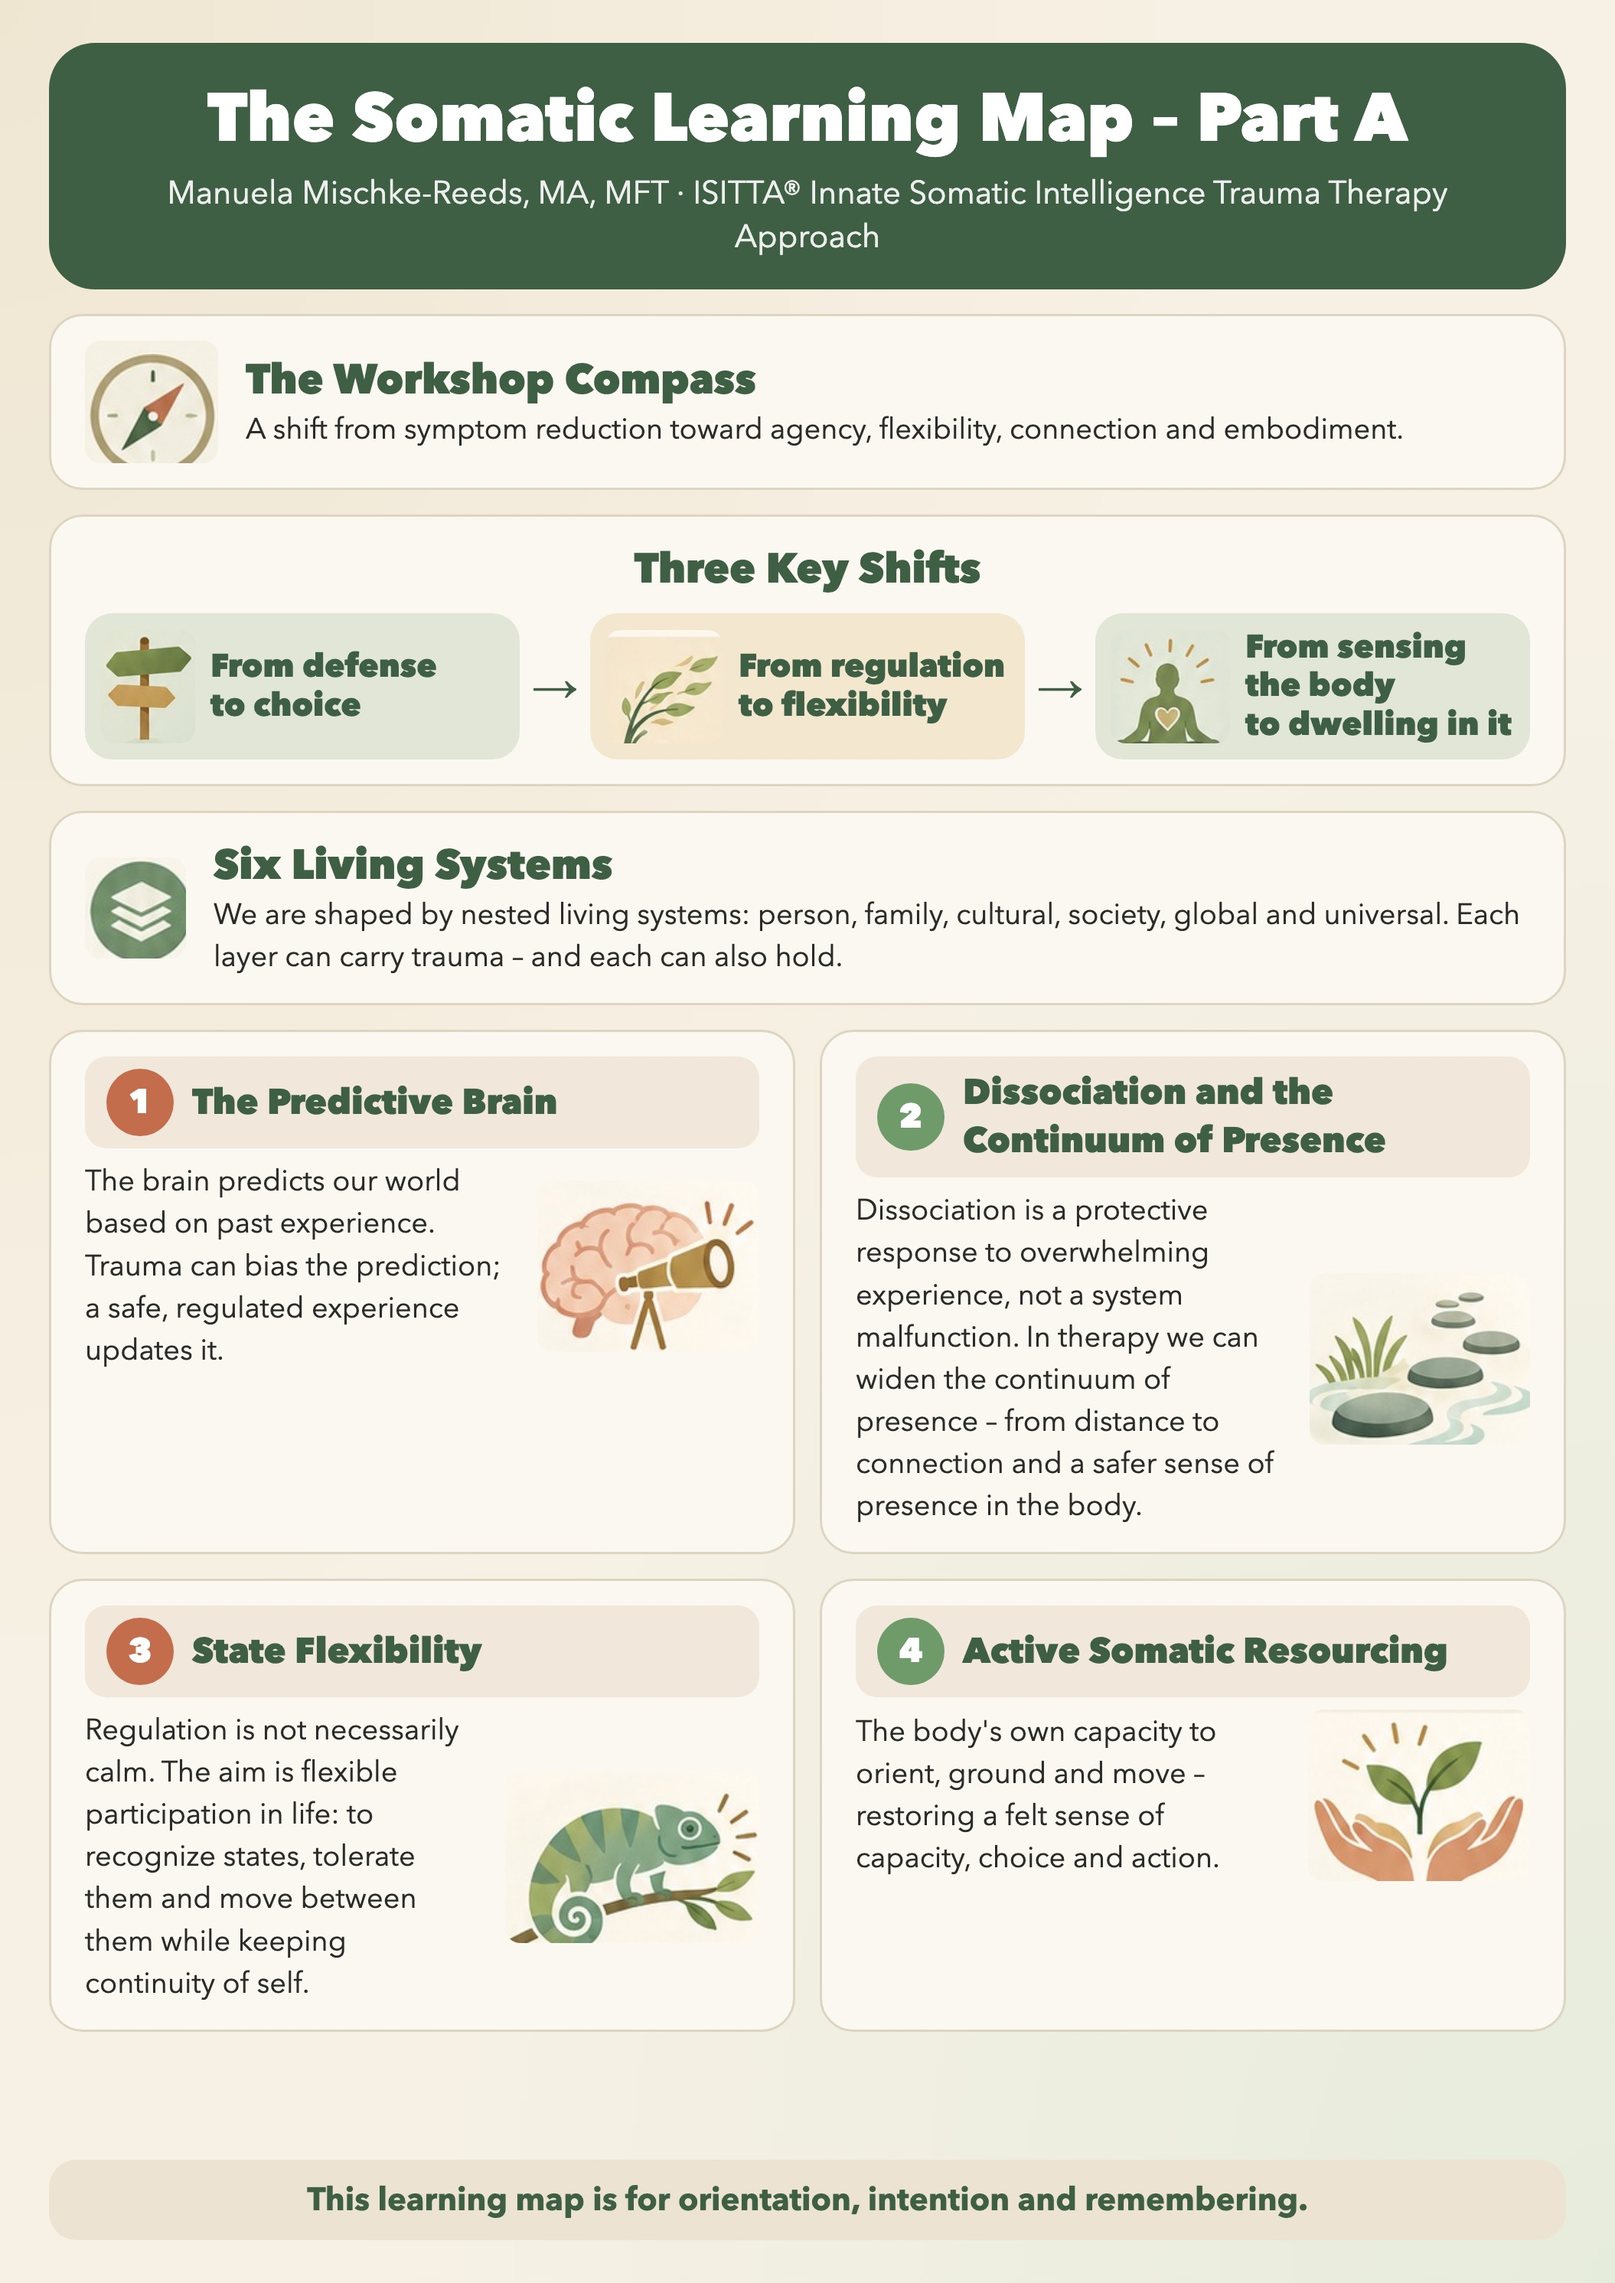
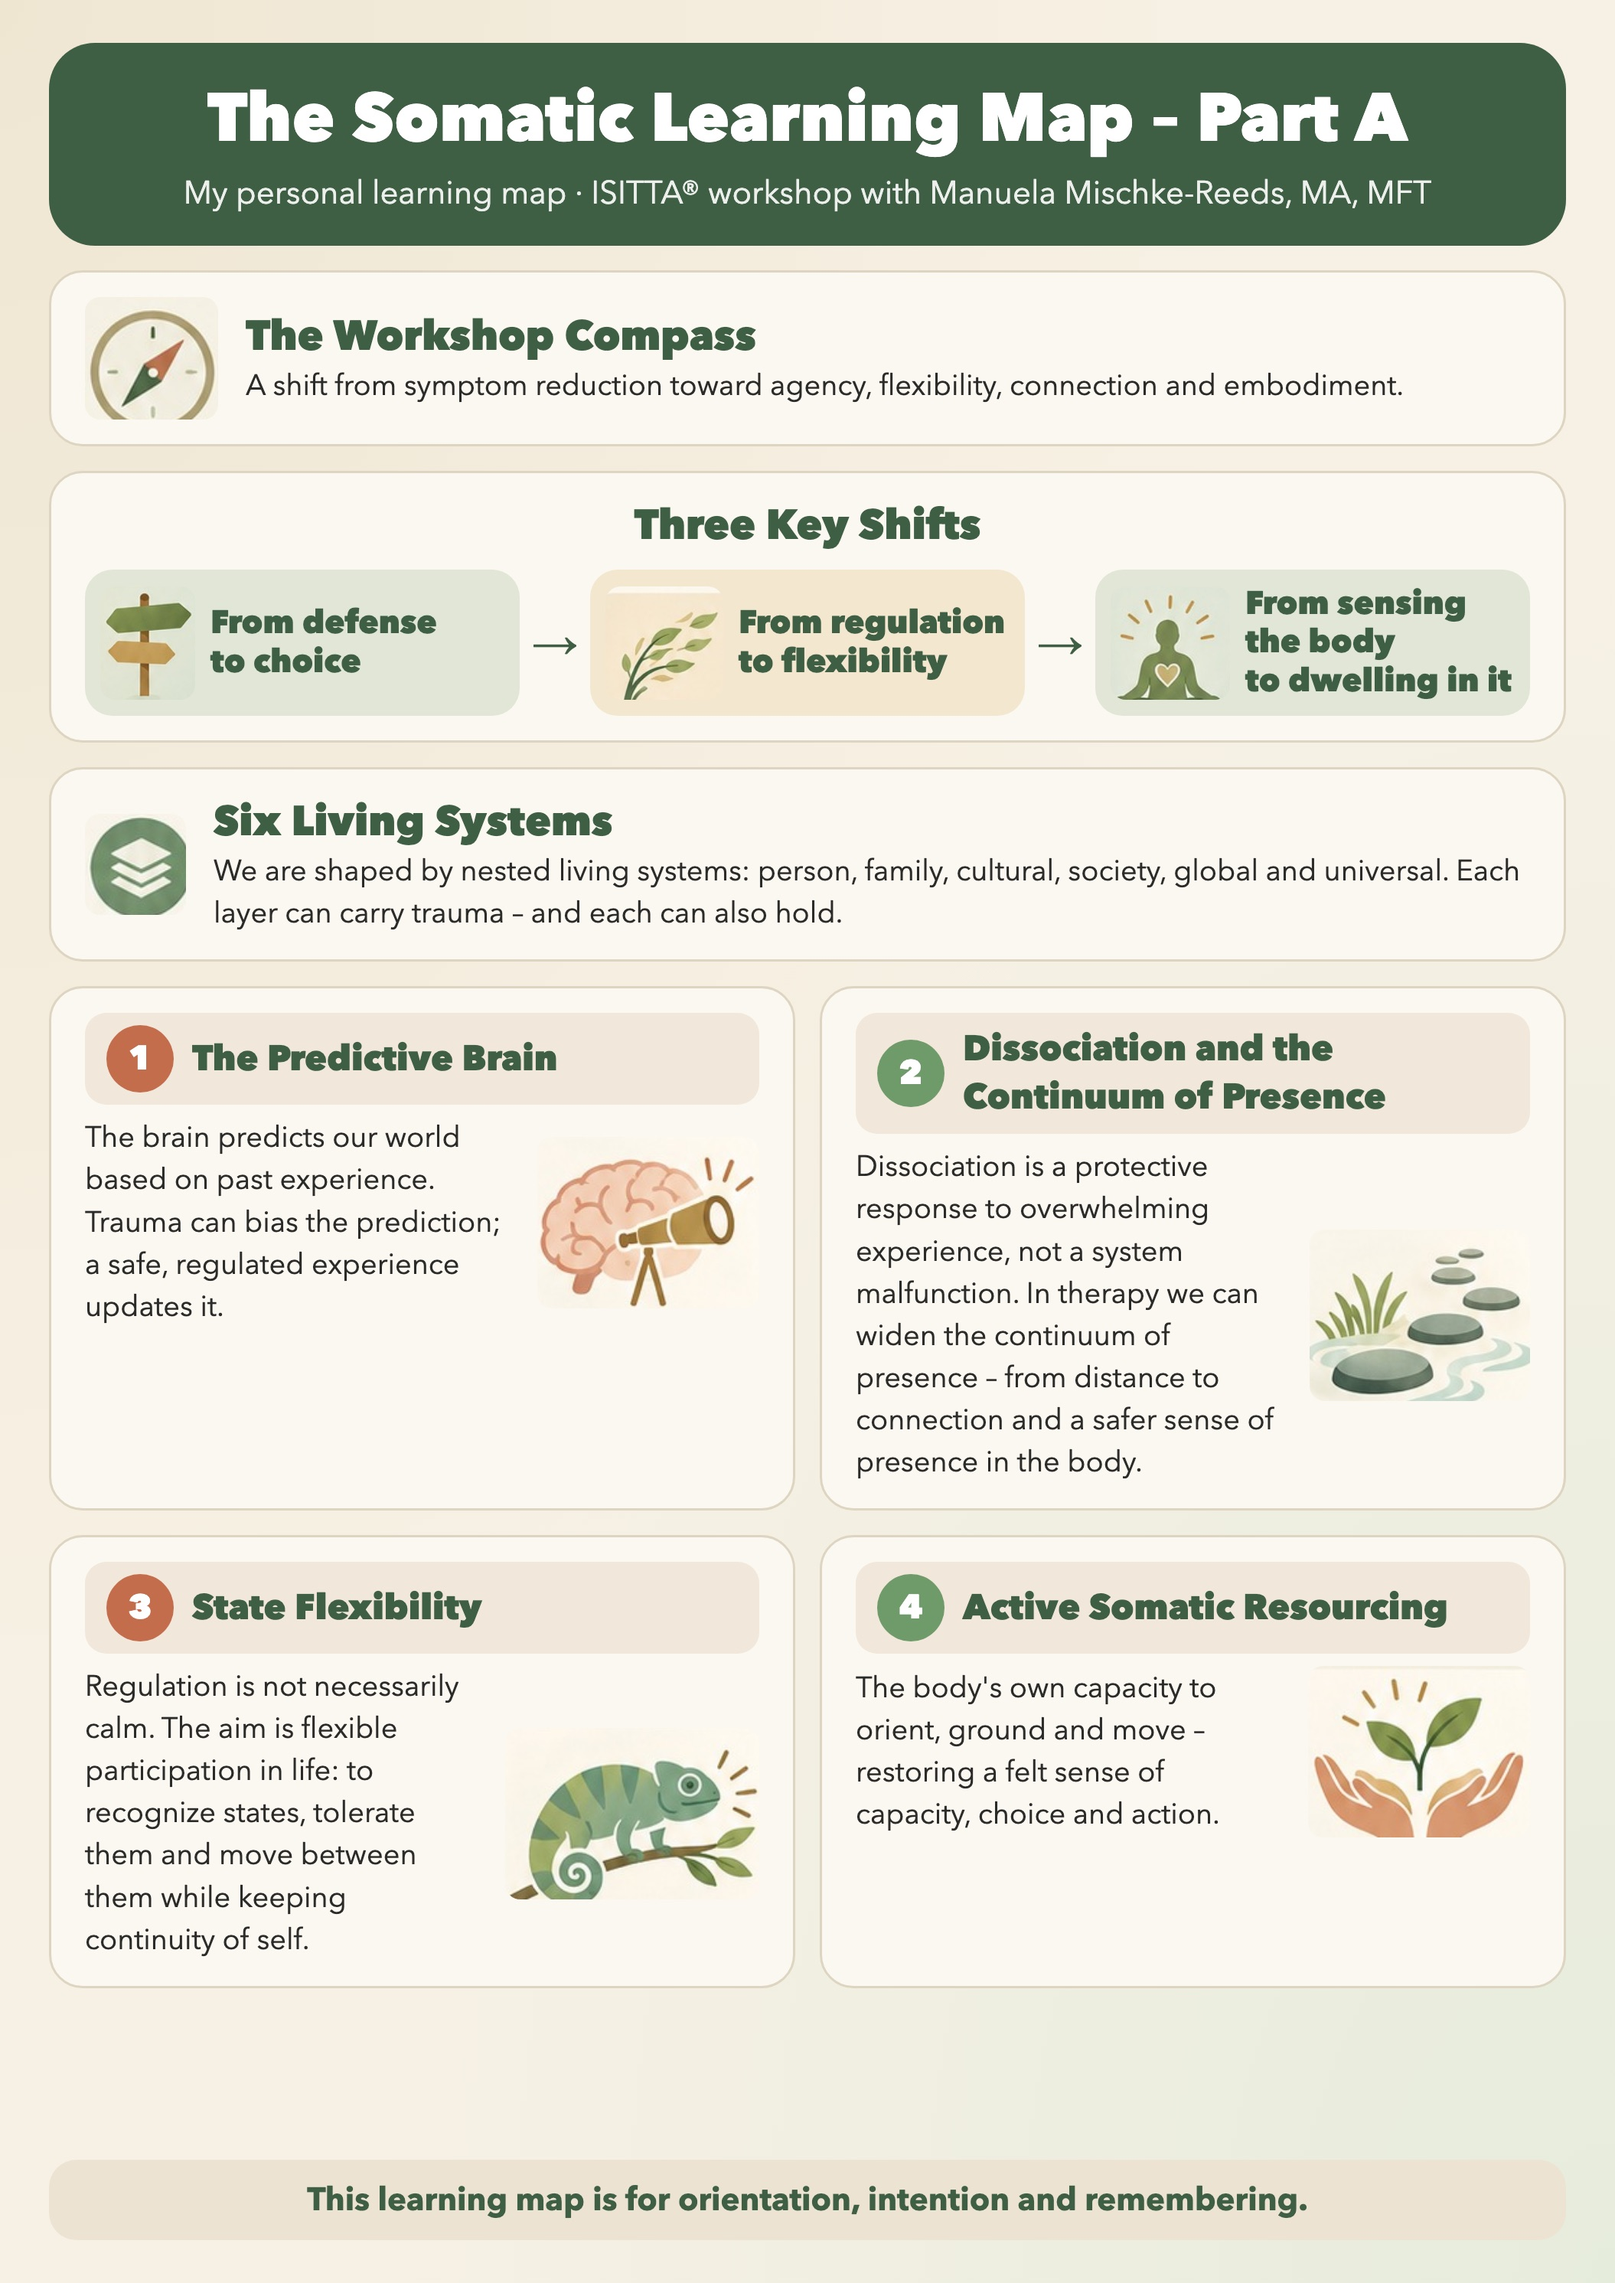
Frame as personal learning map; keep workshop credit

diff --git a/index.html b/index.html
@@ -3,8 +3,8 @@
 <head>
 <meta charset="utf-8">
 <meta name="viewport" content="width=device-width, initial-scale=1">
-<title>מפת התמצאות · ISITTA Learning Map</title>
-<meta name="description" content="מפת התמצאות אישית לסדנת ISITTA · A personal learning map for the ISITTA workshop">
+<title>מפת ההתמצאות שלי בלמידה · My Learning Map</title>
+<meta name="description" content="מפת ההתמצאות שלי בלמידה · My personal learning map">
 <meta name="robots" content="noindex">
 <style>
   :root { --bg:#f7f1e5; --ink:#2b2b28; --green:#3f5f45; --card:#fbf8f1; --line:#ddd5c2; }
@@ -26,8 +26,8 @@
 </head>
 <body>
 <header>
-  <h1>מפת התמצאות · ISITTA Learning Map</h1>
-  <div class="sub">מפת למידה אישית שהוכנה על בסיס חומרי הסדנה · A personal learning map based on the workshop materials</div>
+  <h1>מפת ההתמצאות שלי בלמידה</h1>
+  <div class="sub">הכנתי אותה לעצמי לפני הסדנה, על בסיס החומרים שנשלחו · My own learning map, made before the workshop from the materials we received</div>
   <div class="tabs" role="tablist">
     <button role="tab" id="t-he" aria-selected="true" onclick="show('he')">עברית</button>
     <button role="tab" id="t-en" aria-selected="false" onclick="show('en')">English</button>
@@ -45,7 +45,7 @@
     <figure><img src="en/3.jpg" alt="Key Concepts Glossary"></figure>
   </section>
 </main>
-<footer>Based on ISITTA® workshop materials by Manuela Mischke-Reeds, MA, MFT</footer>
+<footer>מפה אישית שלי, מבוססת על חומרי סדנת ISITTA® של מנואלה מישקה־רידס, MA, MFT · My personal map, based on ISITTA® workshop materials by Manuela Mischke-Reeds, MA, MFT</footer>
 <script>
   function show(id) {
     for (const s of document.querySelectorAll('.set')) s.classList.toggle('on', s.id === id);
